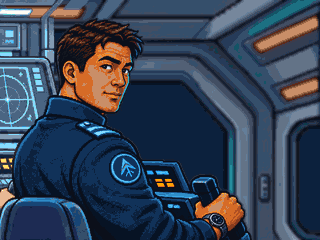
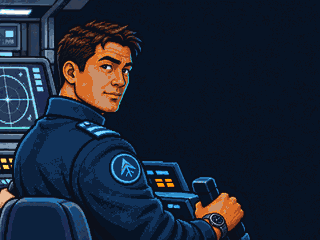
Marcus and Alex: no bridge backdrop; consoles matched to the bridge, plain backdrop kept dark for the text
Claude-Session: https://claude.ai/code/session_01QsU1qWh9Lm4CoQ2smq7FHb

diff --git a/tools/crew_art.py b/tools/crew_art.py
@@ -22,39 +22,34 @@ def room_match(im, cid):
     _, rr, ra = ep.load(os.path.join(ROOT, 'tablet', 'retro', 'assets', ROOM[cid])); rl = ep.to_lab(rr)[ra > 8]
     rgb = np.array(im).astype(float); lab = ep.to_lab(rgb)
     m = np.array(Image.open(mpath).convert('L').resize(im.size).filter(ImageFilter.GaussianBlur(1.5))).astype(float) / 255
-    bg = 1 - m; sel = bg > 0.5; out = lab.copy()
+    bg = 1 - m; plain = plain_area(cid, im.size) * bg if cid in PLAIN else np.zeros_like(bg)
+    sel = (bg - plain) > 0.5   # the room's statistics are matched on the drawn background (consoles), not on a plain backdrop
+    out = lab.copy()
     for k in range(3):   # mean and spread; the spread is not raised much (a plain backdrop would turn to noise)
         v = lab[..., k][sel]; rv = rl[:, k]; sc = min(1.25 if k == 0 else 1.0, rv.std() / max(1e-6, v.std()))
-        out[..., k] = lab[..., k] + ((lab[..., k] - v.mean()) * sc + rv.mean() - lab[..., k]) * BG_STRENGTH
+        step = ((lab[..., k] - v.mean()) * sc + rv.mean() - lab[..., k]) * BG_STRENGTH
+        if k == 0: step = step * (1 - plain)   # the plain backdrop keeps its darkness; only its colour moves
+        out[..., k] = lab[..., k] + step
     res = rgb * m[..., None] + ep.to_rgb(out).astype(float) * bg[..., None]
     return Image.fromarray(res.clip(0, 255).astype(np.uint8))
-# BACKDROP (owner, 2026-11-27): pictures drawn on a plain dark backdrop get a soft, out-of-focus piece of the room picture in that plain area
-# (the drawn consoles and the figure stay). crop: art pixels of the room picture; flip: mirror it so its detail lands on the empty side.
-BACKDROP = { 'helm': ('bridge_original.png', (590, 0, 1024, 300), False), 'sensors': ('bridge_original.png', (0, 0, 434, 300), True) }
-def add_backdrop(im, cid):
+# PLAIN (owner, 2026-11-27): pictures drawn on a plain dark backdrop (Marcus, Alex). The plain area stays dark and blank for the text box;
+# only its colour is moved toward the room's. The drawn consoles get the full room match. (A blurred piece of the bridge behind them was
+# tried and dropped: it gave the wrong sense of where they sit.)
+PLAIN = {'helm', 'sensors'}
+def plain_area(cid, size):
     import numpy as np
     from PIL import ImageFilter
-    if cid not in BACKDROP: return im
-    room, crop, flip = BACKDROP[cid]
-    br = Image.open(os.path.join(ROOT, 'tablet', 'retro', 'assets', room)).convert('RGBA').crop(crop)
-    if flip: br = br.transpose(Image.FLIP_LEFT_RIGHT)
-    sea = Image.new('RGBA', br.size, (14, 46, 72, 255)); sea.alpha_composite(br)   # window holes in the frame: dark sea
-    bd = np.array(sea.convert('RGB').resize(im.size, Image.LANCZOS).filter(ImageFilter.GaussianBlur(5))).astype(float) * 0.7   # out of focus and a little dimmer, so the figure stands out
-    src = Image.open(os.path.join(SRC, f'{cid}_scene.png')).convert('RGB'); rgb0 = np.array(src).astype(float)   # find the plain area on the untouched picture
+    rgb0 = np.array(Image.open(os.path.join(SRC, f'{cid}_scene.png')).convert('RGB').resize(size)).astype(float)
     base = np.median(rgb0[:80, -200:].reshape(-1, 3), 0)
     near = Image.fromarray(((np.abs(rgb0 - base).sum(-1) < 45) * 255).astype(np.uint8)).filter(ImageFilter.MinFilter(9)).filter(ImageFilter.MaxFilter(9))
-    fig = Image.open(os.path.join(SRC, f'{cid}_mask.png')).convert('L').resize(im.size).filter(ImageFilter.MaxFilter(7))
-    e = np.array(near).astype(float) / 255 * (1 - np.array(fig).astype(float) / 255)
-    e = np.array(Image.fromarray((e * 255).astype(np.uint8)).filter(ImageFilter.GaussianBlur(4))).astype(float) / 255
-    rgb = np.array(im).astype(float)
-    return Image.fromarray((rgb * (1 - e[..., None]) + bd * e[..., None]).clip(0, 255).astype(np.uint8))
+    return np.array(near.filter(ImageFilter.GaussianBlur(4))).astype(float) / 255
 def snap(img):
     d = json.load(open(os.path.join(ROOT, 'data', 'palette.json'))); c = d if isinstance(d, list) else d.get('colors', d)
     pal = [tuple(int(h[i:i + 2], 16) for i in (1, 3, 5)) for h in c]; flat = [v for p in pal for v in p]; flat += flat[:3] * (256 - len(pal))
     pi = Image.new('P', (1, 1)); pi.putpalette(flat); return img.quantize(palette=pi, dither=Image.NONE).convert('RGB')
 def main():
   for cid in sys.argv[1:] or FACE:
-      im = add_backdrop(room_match(Image.open(os.path.join(SRC, f'{cid}_scene.png')).convert('RGB'), cid), cid)
+      im = room_match(Image.open(os.path.join(SRC, f'{cid}_scene.png')).convert('RGB'), cid)
       im.resize((1024, 765), Image.LANCZOS).save(os.path.join(OUT, f'{cid}_scene_original.jpg'), quality=90, optimize=True)
       snap(im.resize((320, 240), Image.LANCZOS)).save(os.path.join(OUT, f'{cid}_scene.png'))
       x, y, n = FACE[cid]; face = im.crop((x, y, x + n, y + n))

diff --git a/docs/HANDOFF.md b/docs/HANDOFF.md
@@ -1,6 +1,6 @@
 # Handoff (read this first when a session starts; update it before parking)
 
-Last updated: 2026-11-27. Branch to work on: `tablet`. Repo: NickWest27/AquaNova (GitHub Pages path `/AquaNova/`). Last change: Alex's dialogue picture and face (`sensors`); Marcus and Alex were drawn on a plain dark backdrop, so that area now shows a soft, out-of-focus piece of the bridge picture (`BACKDROP` in `tools/crew_art.py`). Before that crew scene backgrounds shifted toward their room's colours (bridge, engineering, launch bay; figure kept as drawn; masks `art_src/crew/<id>_mask.png`, `ROOM` and `BG_STRENGTH` in `tools/crew_art.py`). Before that new crew scene pictures (Marcus over the shoulder, replacing the first one, kept as `art_src/crew/helm_scene_v1.png`; Chief Doyle; Lt. Washington), made by `tools/crew_art.py`; text box per picture in `SCENE_BOX` (Marcus right but short of his hand, Washington left, Doyle across the bottom with the choices in two columns). Before that desk pads are banks of five (range buttons gone, the yellow keys do range; SNR contact buttons Scan, Probe, Clear moved to the right pad, Investigate renamed Probe; the Sensors station keeps its own − RANGE +). Open: the left pad still has six pages (TAC is a stub). Before that bridge desk (owner, 2026-11-27): the three desk pads are warped to the slant of their holes; DSP moved from the right pad to the round trackpad (lamp lit while on); the two yellow keys left of the centre display are RANGE + / − with the signs printed on; the overhead panel carries the status (position, date, time, BAT) and the screen-edge strip is hidden on the bridge; before that sound board in the PED (Settings > Sound > Sound board opens it full screen over the game; the buttons live in `tablet/js/soundboardKit.js`, shared with the stand-alone page `tablet/soundboard.html`, published at `.../AquaNova/tablet/tablet/soundboard.html`: note the double `tablet`); before that sound board for the owner (every sound in sfx.js and the theme on a button, rename and Copy names); before that NEW BRIDGE FRAME (the owner's picture of 2026-11-27, 1024x765, holes cut from its painted checkerboard; source `art_src/rooms/bridge_original.png`, colour-matched by `tools/even_palette.py`, Retro copy snapped from it). Marcus at the centre helm (tap him to talk; his left monitor opens the Helm station; his two small monitors show heading/speed and depth/floor), Nicole left, Alex right. The three desk pads are one row each: HLM's depth and cruise buttons moved to the right pad. The status strip moves to the top on the bridge (`body.on-bridge`). Walkway exit: bottom-left corner. Before that: 16-bit sound effects library (`tablet/js/sfx.js`, 32 sounds; previews `docs/audio/sfx/`, reel `docs/audio/sfx_reel.mp3` + `.txt`, rendered by `tools/render_sfx.py`; Effects slider in PED Settings). Wired: general alarm, impact/crash, fire and flooding alarms, super cruise power-up and engage, emergency blow, sonar sweep ping, doors between rooms, the engine room loop, radio squelch when the communicator opens; before that short crew lines show as notices on the bridge's overhead console (two lines, whole panel); ARIA's hints wait at least a minute; bigger overhead and nav log text; the vertical profile uses the nav screen's colours (warning yellow and red kept); before that every crew message opens the dialogue (hints, reports, objective lines); only the reply to a button press (`tell()`) and action ticks stay a short line at the foot of the screen (notify.js); before that main title "Beneath the Waves" (original, 16-bit style, `tablet/js/theme.js`; PED Settings > Play theme; render with `tools/render_theme.py` to `docs/audio/aqua_nova_theme.mp3`); before that the communicator never replaces what the Captain is reading: new lines wait behind "Continue" (crew.js readTo); before that fixed Restart from the beginning (a new game was no longer recognised because 'pick up the communicator' now starts as waiting; `commsLocked` in app.js; test `tools/restart_test.py`); before that no discovery notes in the logbook (arrivals to the PED Journal, records to PED Findings); before that one task at a time (objective status 'waiting' until the step before is done; follow-on missions start after a short saved pause; the PED shows done steps, the current one and how many are to come); super cruise spools up for 8 s and eases in and out, any other power setting drops it; Route editor Edit button and a degrees-and-minutes read-back in the waypoint dialog; the trials escort (OERA Seaward, CGC Vigilant) on AIS; the 300 m depth is a certification step (story bible); before that route planner fix (trips over about 120 nm fell off the search grid and were reported as blocked: `route.js` now grows its cells on long trips; test in `tools/route_test.mjs`); the commissioning orders give the AO's centre point, not its corners; before that walkway A1, walkway AN-1 and medbay back to the colour-matched pictures (a pixel-art rebuild by filter looked smudged; they need redrawing to be as crisp as the launch bay); stray speckles removed from the Retro copies; BRIDGE sign on A1 drawn by the game; before that rooms open with the story and crew join the communicator when their room is visited (`rooms.js`, see `docs/COMMS_AND_PROGRESSION.md`); ARIA's bridge introduction; before that crew renamed (Lt. Andre Washington for security, Chief Engineer Ryan Doyle; see `docs/STORY_BIBLE.md`); the Captain's lines in the communicator are conversational (`SAY` in `stations/crew.js`); Call another station; Take me to my quarters removed; before that communicator menu tidied and First Contact completes on ARIA's introduction (see `docs/HELM_AND_ORDERS.md`); before that portraits and dialogue screens for Marcus, ARIA and Dr. Patel (`tools/crew_art.py`, sources in `art_src/crew/`; text box side per picture: `SCENE_BOX` in art.js); before that room pictures evened out to the Engineering picture's brightness and colour (`tools/even_palette.py`; the untouched originals are in `art_src/rooms/`, outside the served folders: a new room picture goes there first, then run the script, which also remakes the Retro copies); bigger crew tap areas on the bridge; before that the owner's testing list (below, all 18 items); before that the quarters wall screen cycles NAV, synthetic vision, sonar, WSKRs and ship status (`quartersScreen.js`, tap = next page, 10 s each; test `tools/quarters_screen_test.py`); pushing the trials for records with a risk of light damage (`trials.js`); story bible brought up to date; before that Sea Trials became the commissioning trip to the Trials AO (welcome letter in the logbook, commissioning orders by mail, Welcome to the AO mail; nav, eng and super cruise commissioned in steps; see the tutorial table in `docs/COMMS_AND_PROGRESSION.md`); before that the owner's welcome letter in the logbook; before that general alarm (ARIA order + engineering button; red lighting and frames; faster fire/flood response if sounded first; see `docs/ENGINEERING.md`); before that the Engineering room shows the ship's state (core glow amber/red, live console screens, red alarm for fire/flooding; see `docs/ENGINEERING.md`); before that the engineering computer; before that the 90s dialogue screen for Nicole; before that Nicole's portrait; before that walkway AN-1 and Engineering on the owner's pictures (every room is now 4:3); before that site survey (`survey.js`, Survey site on SONAR, Seabed survey missions) and the XO tends Remora before getting under way; before that Remora's tether parts past its length, the Tern fetches her (`tools/tether_test.py`); before that PED, communicator and corner buttons in the 4:3 box; before that Launch Bay as instruments, WSKRs have their own launch bays, standard target readout (`readout.js`), Full sweep 36 s; before that station pages are a 4:3 page (1024 x 768) scaled like the stage; before that pages fit the screen (`tools/fit_test.py`) and Sensors has SONAR and WSKRs only; before that contact tracking (detection chance, names belong to tracks, probable matches, signatures on file: `docs/CONTACT_TRACKING.md`); before that identified ships saved; before that one zoom direction everywhere ("+" zooms in) and round map zoom buttons; before that the bridge original picture with real transparent holes; before that the medbay on the owner's picture (after bridge, walkway A1, quarters, science lab, launch bay).
+Last updated: 2026-11-27. Branch to work on: `tablet`. Repo: NickWest27/AquaNova (GitHub Pages path `/AquaNova/`). Last change: Alex's dialogue picture and face (`sensors`); Marcus and Alex: their consoles are matched to the bridge colours, the plain backdrop stays dark and blank for the text (`PLAIN` in `tools/crew_art.py`; a blurred bridge backdrop was tried and dropped by the owner: wrong sense of where they sit). Before that crew scene backgrounds shifted toward their room's colours (bridge, engineering, launch bay; figure kept as drawn; masks `art_src/crew/<id>_mask.png`, `ROOM` and `BG_STRENGTH` in `tools/crew_art.py`). Before that new crew scene pictures (Marcus over the shoulder, replacing the first one, kept as `art_src/crew/helm_scene_v1.png`; Chief Doyle; Lt. Washington), made by `tools/crew_art.py`; text box per picture in `SCENE_BOX` (Marcus right but short of his hand, Washington left, Doyle across the bottom with the choices in two columns). Before that desk pads are banks of five (range buttons gone, the yellow keys do range; SNR contact buttons Scan, Probe, Clear moved to the right pad, Investigate renamed Probe; the Sensors station keeps its own − RANGE +). Open: the left pad still has six pages (TAC is a stub). Before that bridge desk (owner, 2026-11-27): the three desk pads are warped to the slant of their holes; DSP moved from the right pad to the round trackpad (lamp lit while on); the two yellow keys left of the centre display are RANGE + / − with the signs printed on; the overhead panel carries the status (position, date, time, BAT) and the screen-edge strip is hidden on the bridge; before that sound board in the PED (Settings > Sound > Sound board opens it full screen over the game; the buttons live in `tablet/js/soundboardKit.js`, shared with the stand-alone page `tablet/soundboard.html`, published at `.../AquaNova/tablet/tablet/soundboard.html`: note the double `tablet`); before that sound board for the owner (every sound in sfx.js and the theme on a button, rename and Copy names); before that NEW BRIDGE FRAME (the owner's picture of 2026-11-27, 1024x765, holes cut from its painted checkerboard; source `art_src/rooms/bridge_original.png`, colour-matched by `tools/even_palette.py`, Retro copy snapped from it). Marcus at the centre helm (tap him to talk; his left monitor opens the Helm station; his two small monitors show heading/speed and depth/floor), Nicole left, Alex right. The three desk pads are one row each: HLM's depth and cruise buttons moved to the right pad. The status strip moves to the top on the bridge (`body.on-bridge`). Walkway exit: bottom-left corner. Before that: 16-bit sound effects library (`tablet/js/sfx.js`, 32 sounds; previews `docs/audio/sfx/`, reel `docs/audio/sfx_reel.mp3` + `.txt`, rendered by `tools/render_sfx.py`; Effects slider in PED Settings). Wired: general alarm, impact/crash, fire and flooding alarms, super cruise power-up and engage, emergency blow, sonar sweep ping, doors between rooms, the engine room loop, radio squelch when the communicator opens; before that short crew lines show as notices on the bridge's overhead console (two lines, whole panel); ARIA's hints wait at least a minute; bigger overhead and nav log text; the vertical profile uses the nav screen's colours (warning yellow and red kept); before that every crew message opens the dialogue (hints, reports, objective lines); only the reply to a button press (`tell()`) and action ticks stay a short line at the foot of the screen (notify.js); before that main title "Beneath the Waves" (original, 16-bit style, `tablet/js/theme.js`; PED Settings > Play theme; render with `tools/render_theme.py` to `docs/audio/aqua_nova_theme.mp3`); before that the communicator never replaces what the Captain is reading: new lines wait behind "Continue" (crew.js readTo); before that fixed Restart from the beginning (a new game was no longer recognised because 'pick up the communicator' now starts as waiting; `commsLocked` in app.js; test `tools/restart_test.py`); before that no discovery notes in the logbook (arrivals to the PED Journal, records to PED Findings); before that one task at a time (objective status 'waiting' until the step before is done; follow-on missions start after a short saved pause; the PED shows done steps, the current one and how many are to come); super cruise spools up for 8 s and eases in and out, any other power setting drops it; Route editor Edit button and a degrees-and-minutes read-back in the waypoint dialog; the trials escort (OERA Seaward, CGC Vigilant) on AIS; the 300 m depth is a certification step (story bible); before that route planner fix (trips over about 120 nm fell off the search grid and were reported as blocked: `route.js` now grows its cells on long trips; test in `tools/route_test.mjs`); the commissioning orders give the AO's centre point, not its corners; before that walkway A1, walkway AN-1 and medbay back to the colour-matched pictures (a pixel-art rebuild by filter looked smudged; they need redrawing to be as crisp as the launch bay); stray speckles removed from the Retro copies; BRIDGE sign on A1 drawn by the game; before that rooms open with the story and crew join the communicator when their room is visited (`rooms.js`, see `docs/COMMS_AND_PROGRESSION.md`); ARIA's bridge introduction; before that crew renamed (Lt. Andre Washington for security, Chief Engineer Ryan Doyle; see `docs/STORY_BIBLE.md`); the Captain's lines in the communicator are conversational (`SAY` in `stations/crew.js`); Call another station; Take me to my quarters removed; before that communicator menu tidied and First Contact completes on ARIA's introduction (see `docs/HELM_AND_ORDERS.md`); before that portraits and dialogue screens for Marcus, ARIA and Dr. Patel (`tools/crew_art.py`, sources in `art_src/crew/`; text box side per picture: `SCENE_BOX` in art.js); before that room pictures evened out to the Engineering picture's brightness and colour (`tools/even_palette.py`; the untouched originals are in `art_src/rooms/`, outside the served folders: a new room picture goes there first, then run the script, which also remakes the Retro copies); bigger crew tap areas on the bridge; before that the owner's testing list (below, all 18 items); before that the quarters wall screen cycles NAV, synthetic vision, sonar, WSKRs and ship status (`quartersScreen.js`, tap = next page, 10 s each; test `tools/quarters_screen_test.py`); pushing the trials for records with a risk of light damage (`trials.js`); story bible brought up to date; before that Sea Trials became the commissioning trip to the Trials AO (welcome letter in the logbook, commissioning orders by mail, Welcome to the AO mail; nav, eng and super cruise commissioned in steps; see the tutorial table in `docs/COMMS_AND_PROGRESSION.md`); before that the owner's welcome letter in the logbook; before that general alarm (ARIA order + engineering button; red lighting and frames; faster fire/flood response if sounded first; see `docs/ENGINEERING.md`); before that the Engineering room shows the ship's state (core glow amber/red, live console screens, red alarm for fire/flooding; see `docs/ENGINEERING.md`); before that the engineering computer; before that the 90s dialogue screen for Nicole; before that Nicole's portrait; before that walkway AN-1 and Engineering on the owner's pictures (every room is now 4:3); before that site survey (`survey.js`, Survey site on SONAR, Seabed survey missions) and the XO tends Remora before getting under way; before that Remora's tether parts past its length, the Tern fetches her (`tools/tether_test.py`); before that PED, communicator and corner buttons in the 4:3 box; before that Launch Bay as instruments, WSKRs have their own launch bays, standard target readout (`readout.js`), Full sweep 36 s; before that station pages are a 4:3 page (1024 x 768) scaled like the stage; before that pages fit the screen (`tools/fit_test.py`) and Sensors has SONAR and WSKRs only; before that contact tracking (detection chance, names belong to tracks, probable matches, signatures on file: `docs/CONTACT_TRACKING.md`); before that identified ships saved; before that one zoom direction everywhere ("+" zooms in) and round map zoom buttons; before that the bridge original picture with real transparent holes; before that the medbay on the owner's picture (after bridge, walkway A1, quarters, science lab, launch bay).
 
 ## Owner's testing list (2026-11-26): all done 2026-11-27, waiting for the owner to test on the iPad
 Rooms and signs
